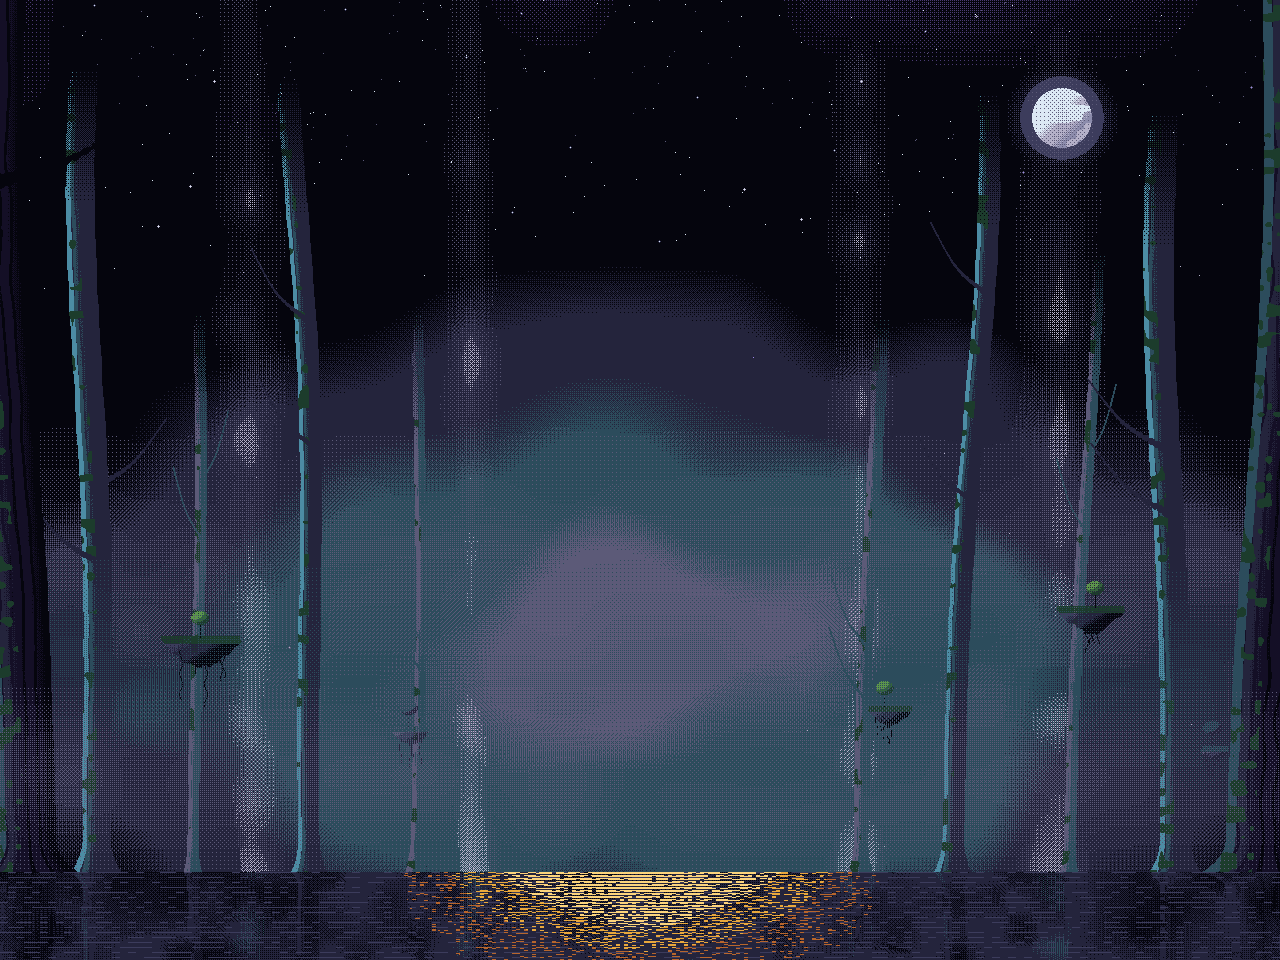
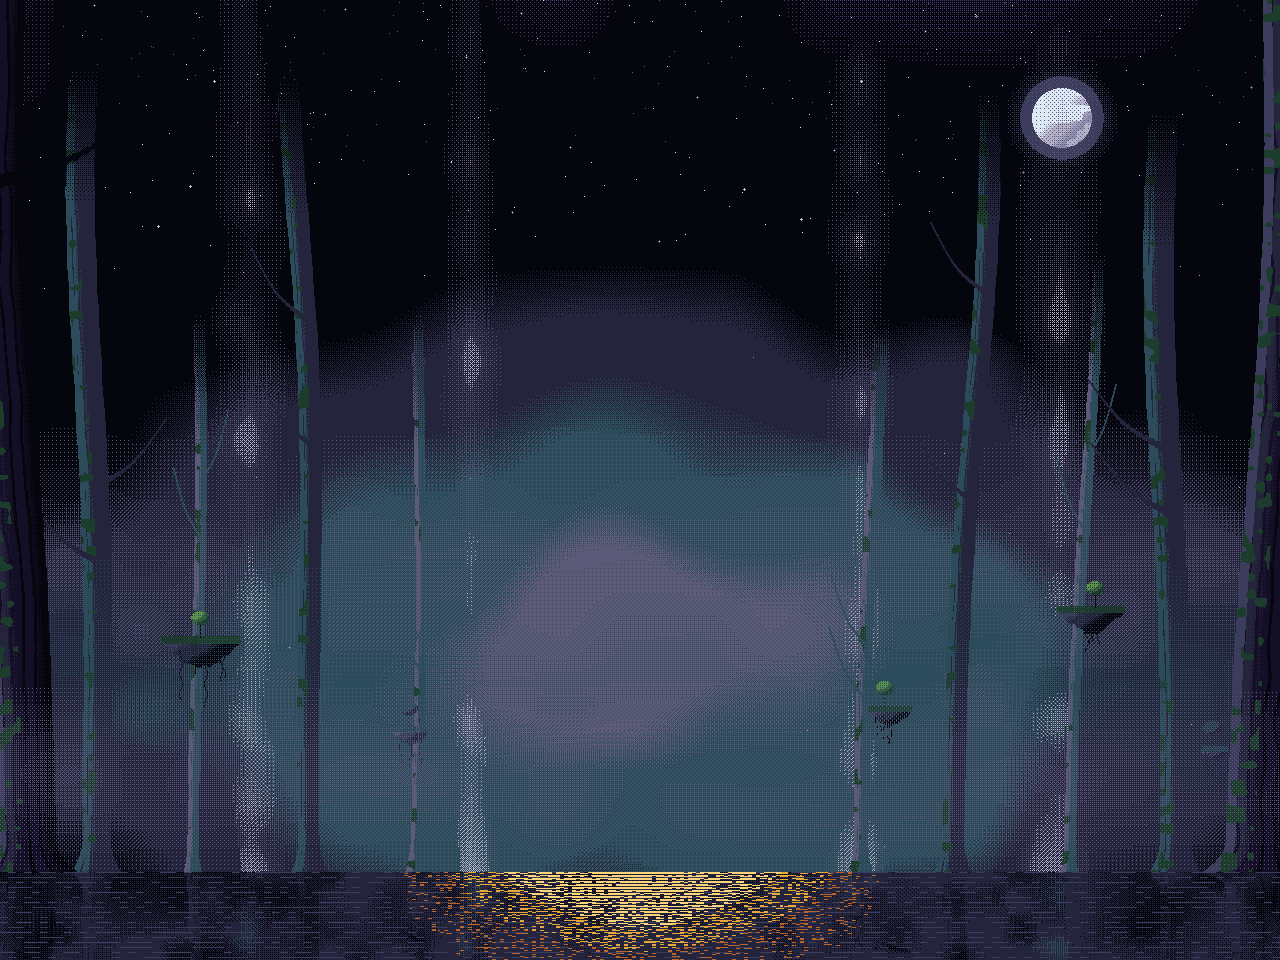
Revert the teal-lit Grove background trunks (user: remove the tint)
This reverts commit 6a04d206.

diff --git a/Project_T/tools/meta_art/grove_gen.html b/Project_T/tools/meta_art/grove_gen.html
@@ -910,12 +910,12 @@ function grovesky(pad = 0) {
   for (const x of [180, 430, 860, 1080]) trunk(x + (hash(x, 1, 84) - .5) * 40, 10 + hash(x, 2, 84) * 8, (hash(x, 3, 84) - .5) * .08, 10, x, [HW.Pool, HW.Pool, HW.Slate], HW.Slate, 360 + hash(x, 4, 84) * 160);
   if (pad) for (const x of [-520, -260, 1540, 1790]) trunk(x + (hash(x + 999, 1, 84) - .5) * 40, 10 + hash(x + 999, 2, 84) * 8, (hash(x + 999, 3, 84) - .5) * .08, 10, x, [HW.Pool, HW.Pool, HW.Slate], HW.Slate, 360 + hash(x + 999, 4, 84) * 160);
   mistBand(380, 900, .34, HW.Slate);
-  for (const x of [90, 330, 960, 1170]) trunk(x + (hash(x, 1, 85) - .5) * 50, 20 + hash(x, 2, 85) * 12, (hash(x, 3, 85) - .5) * .1, 14, x + 20, [HW.Night, HW.Night, HW.Pool], HW.Dew, 560 + hash(x, 4, 85) * 200);
-  if (pad) for (const x of [-420, -140, 1420, 1700]) trunk(x + (hash(x + 999, 1, 85) - .5) * 50, 20 + hash(x + 999, 2, 85) * 12, (hash(x + 999, 3, 85) - .5) * .1, 14, x + 20, [HW.Night, HW.Night, HW.Pool], HW.Dew, 560 + hash(x + 999, 4, 85) * 200);
+  for (const x of [90, 330, 960, 1170]) trunk(x + (hash(x, 1, 85) - .5) * 50, 20 + hash(x, 2, 85) * 12, (hash(x, 3, 85) - .5) * .1, 14, x + 20, [HW.Night, HW.Night, HW.Pool], HW.Pool, 560 + hash(x, 4, 85) * 200);
+  if (pad) for (const x of [-420, -140, 1420, 1700]) trunk(x + (hash(x + 999, 1, 85) - .5) * 50, 20 + hash(x + 999, 2, 85) * 12, (hash(x + 999, 3, 85) - .5) * .1, 14, x + 20, [HW.Night, HW.Night, HW.Pool], HW.Pool, 560 + hash(x + 999, 4, 85) * 200);
   mistBand(520, 900, .28, HW.Pool);
   island(200, 640, 40, .35, 1); island(1090, 610, 34, .4, 2); island(410, 730, 20, .55, 3); island(890, 710, 22, .5, 4); island(1215, 750, 14, .6, 5);
   if (pad) { island(-330, 600, 36, .4, 6); island(1600, 660, 30, .45, 7); }
-  for (const [x, w, lean] of [[28, 58, .04], [1256, 62, -.05]]) trunk(x, w, lean, 10, x, [HW.Void, HW.Dread, HW.Night], HW.Pool, 900);
+  for (const [x, w, lean] of [[28, 58, .04], [1256, 62, -.05]]) trunk(x, w, lean, 10, x, [HW.Void, HW.Dread, HW.Night], HW.Dusk, 900);
   mistBand(660, 900, .3, HW.Slate);
   // Still dark water at the bottom: ripple lines, the trunks' dim reflections, and the Heartwood's
   // warm light reflected in a broken column below it.

diff --git a/Project_T/tools/meta_art/grove_tree.js b/Project_T/tools/meta_art/grove_tree.js
@@ -449,12 +449,12 @@ function grovesky(pad = 0) {
   for (const x of [180, 430, 860, 1080]) trunk(x + (hash(x, 1, 84) - .5) * 40, 10 + hash(x, 2, 84) * 8, (hash(x, 3, 84) - .5) * .08, 10, x, [HW.Pool, HW.Pool, HW.Slate], HW.Slate, 360 + hash(x, 4, 84) * 160);
   if (pad) for (const x of [-520, -260, 1540, 1790]) trunk(x + (hash(x + 999, 1, 84) - .5) * 40, 10 + hash(x + 999, 2, 84) * 8, (hash(x + 999, 3, 84) - .5) * .08, 10, x, [HW.Pool, HW.Pool, HW.Slate], HW.Slate, 360 + hash(x + 999, 4, 84) * 160);
   mistBand(380, 900, .34, HW.Slate);
-  for (const x of [90, 330, 960, 1170]) trunk(x + (hash(x, 1, 85) - .5) * 50, 20 + hash(x, 2, 85) * 12, (hash(x, 3, 85) - .5) * .1, 14, x + 20, [HW.Night, HW.Night, HW.Pool], HW.Dew, 560 + hash(x, 4, 85) * 200);
-  if (pad) for (const x of [-420, -140, 1420, 1700]) trunk(x + (hash(x + 999, 1, 85) - .5) * 50, 20 + hash(x + 999, 2, 85) * 12, (hash(x + 999, 3, 85) - .5) * .1, 14, x + 20, [HW.Night, HW.Night, HW.Pool], HW.Dew, 560 + hash(x + 999, 4, 85) * 200);
+  for (const x of [90, 330, 960, 1170]) trunk(x + (hash(x, 1, 85) - .5) * 50, 20 + hash(x, 2, 85) * 12, (hash(x, 3, 85) - .5) * .1, 14, x + 20, [HW.Night, HW.Night, HW.Pool], HW.Pool, 560 + hash(x, 4, 85) * 200);
+  if (pad) for (const x of [-420, -140, 1420, 1700]) trunk(x + (hash(x + 999, 1, 85) - .5) * 50, 20 + hash(x + 999, 2, 85) * 12, (hash(x + 999, 3, 85) - .5) * .1, 14, x + 20, [HW.Night, HW.Night, HW.Pool], HW.Pool, 560 + hash(x + 999, 4, 85) * 200);
   mistBand(520, 900, .28, HW.Pool);
   island(200, 640, 40, .35, 1); island(1090, 610, 34, .4, 2); island(410, 730, 20, .55, 3); island(890, 710, 22, .5, 4); island(1215, 750, 14, .6, 5);
   if (pad) { island(-330, 600, 36, .4, 6); island(1600, 660, 30, .45, 7); }
-  for (const [x, w, lean] of [[28, 58, .04], [1256, 62, -.05]]) trunk(x, w, lean, 10, x, [HW.Void, HW.Dread, HW.Night], HW.Pool, 900);
+  for (const [x, w, lean] of [[28, 58, .04], [1256, 62, -.05]]) trunk(x, w, lean, 10, x, [HW.Void, HW.Dread, HW.Night], HW.Dusk, 900);
   mistBand(660, 900, .3, HW.Slate);
   // Still dark water at the bottom: ripple lines, the trunks' dim reflections, and the Heartwood's
   // warm light reflected in a broken column below it.
